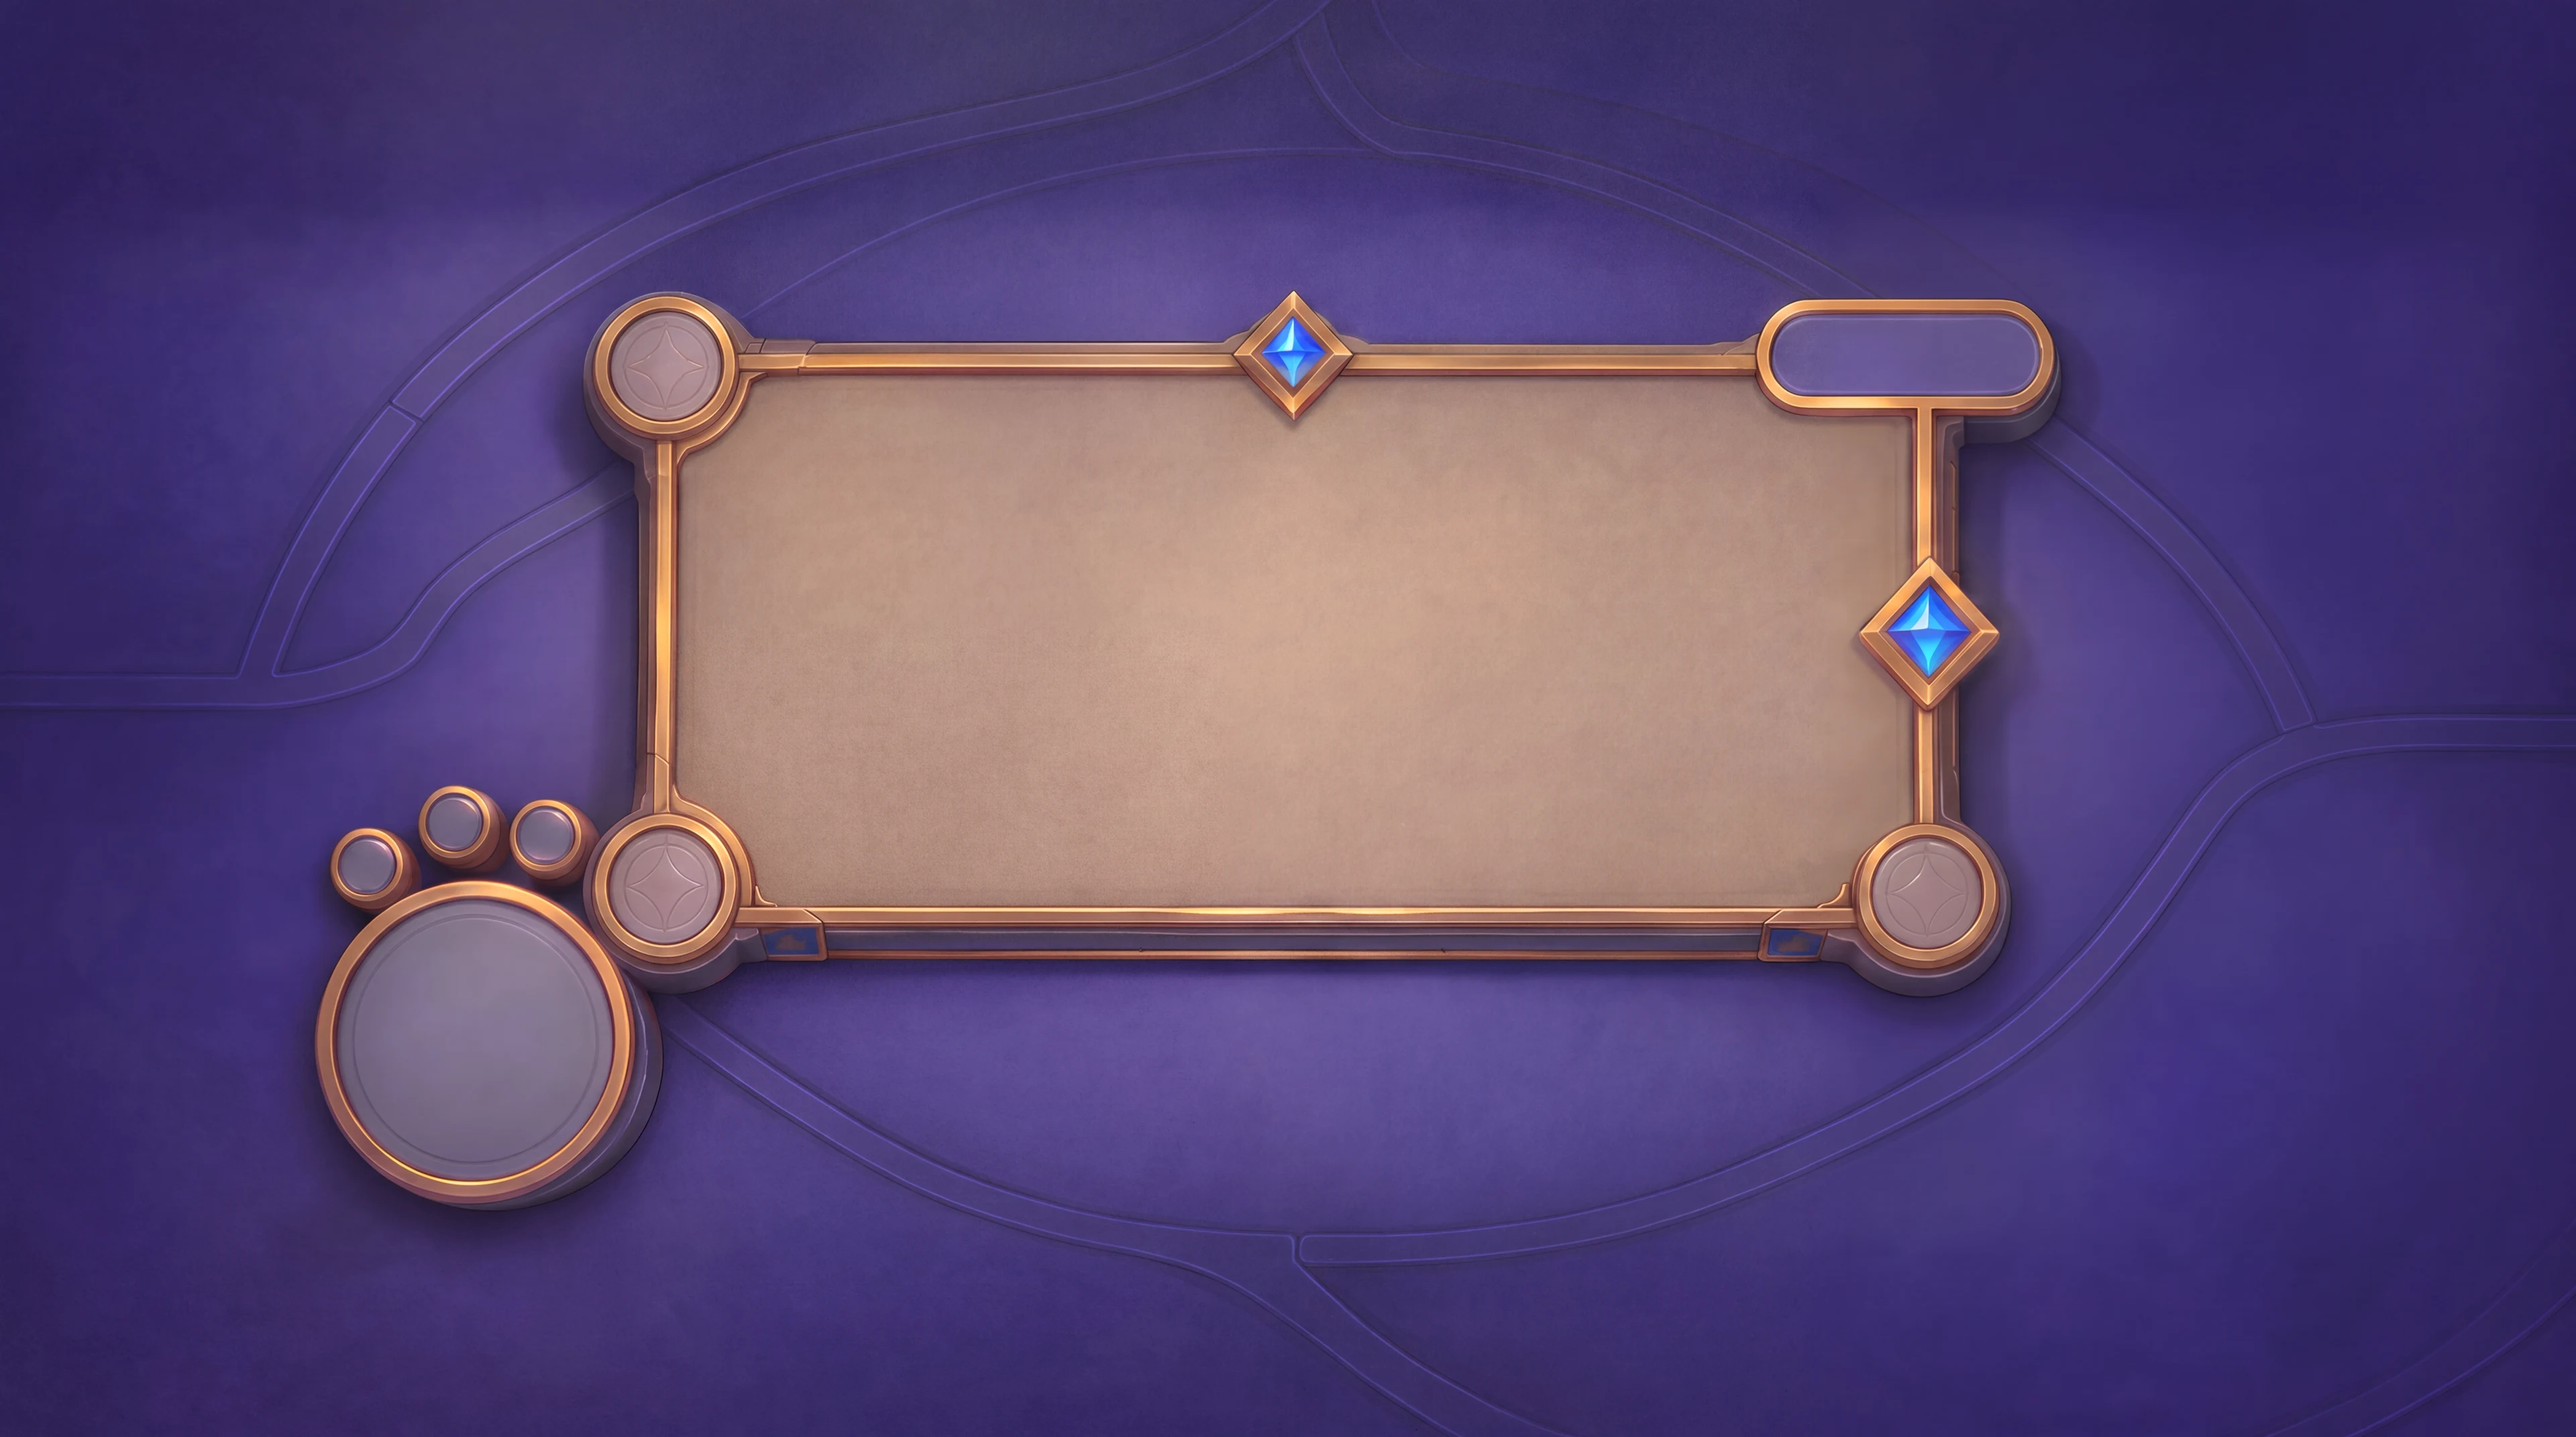
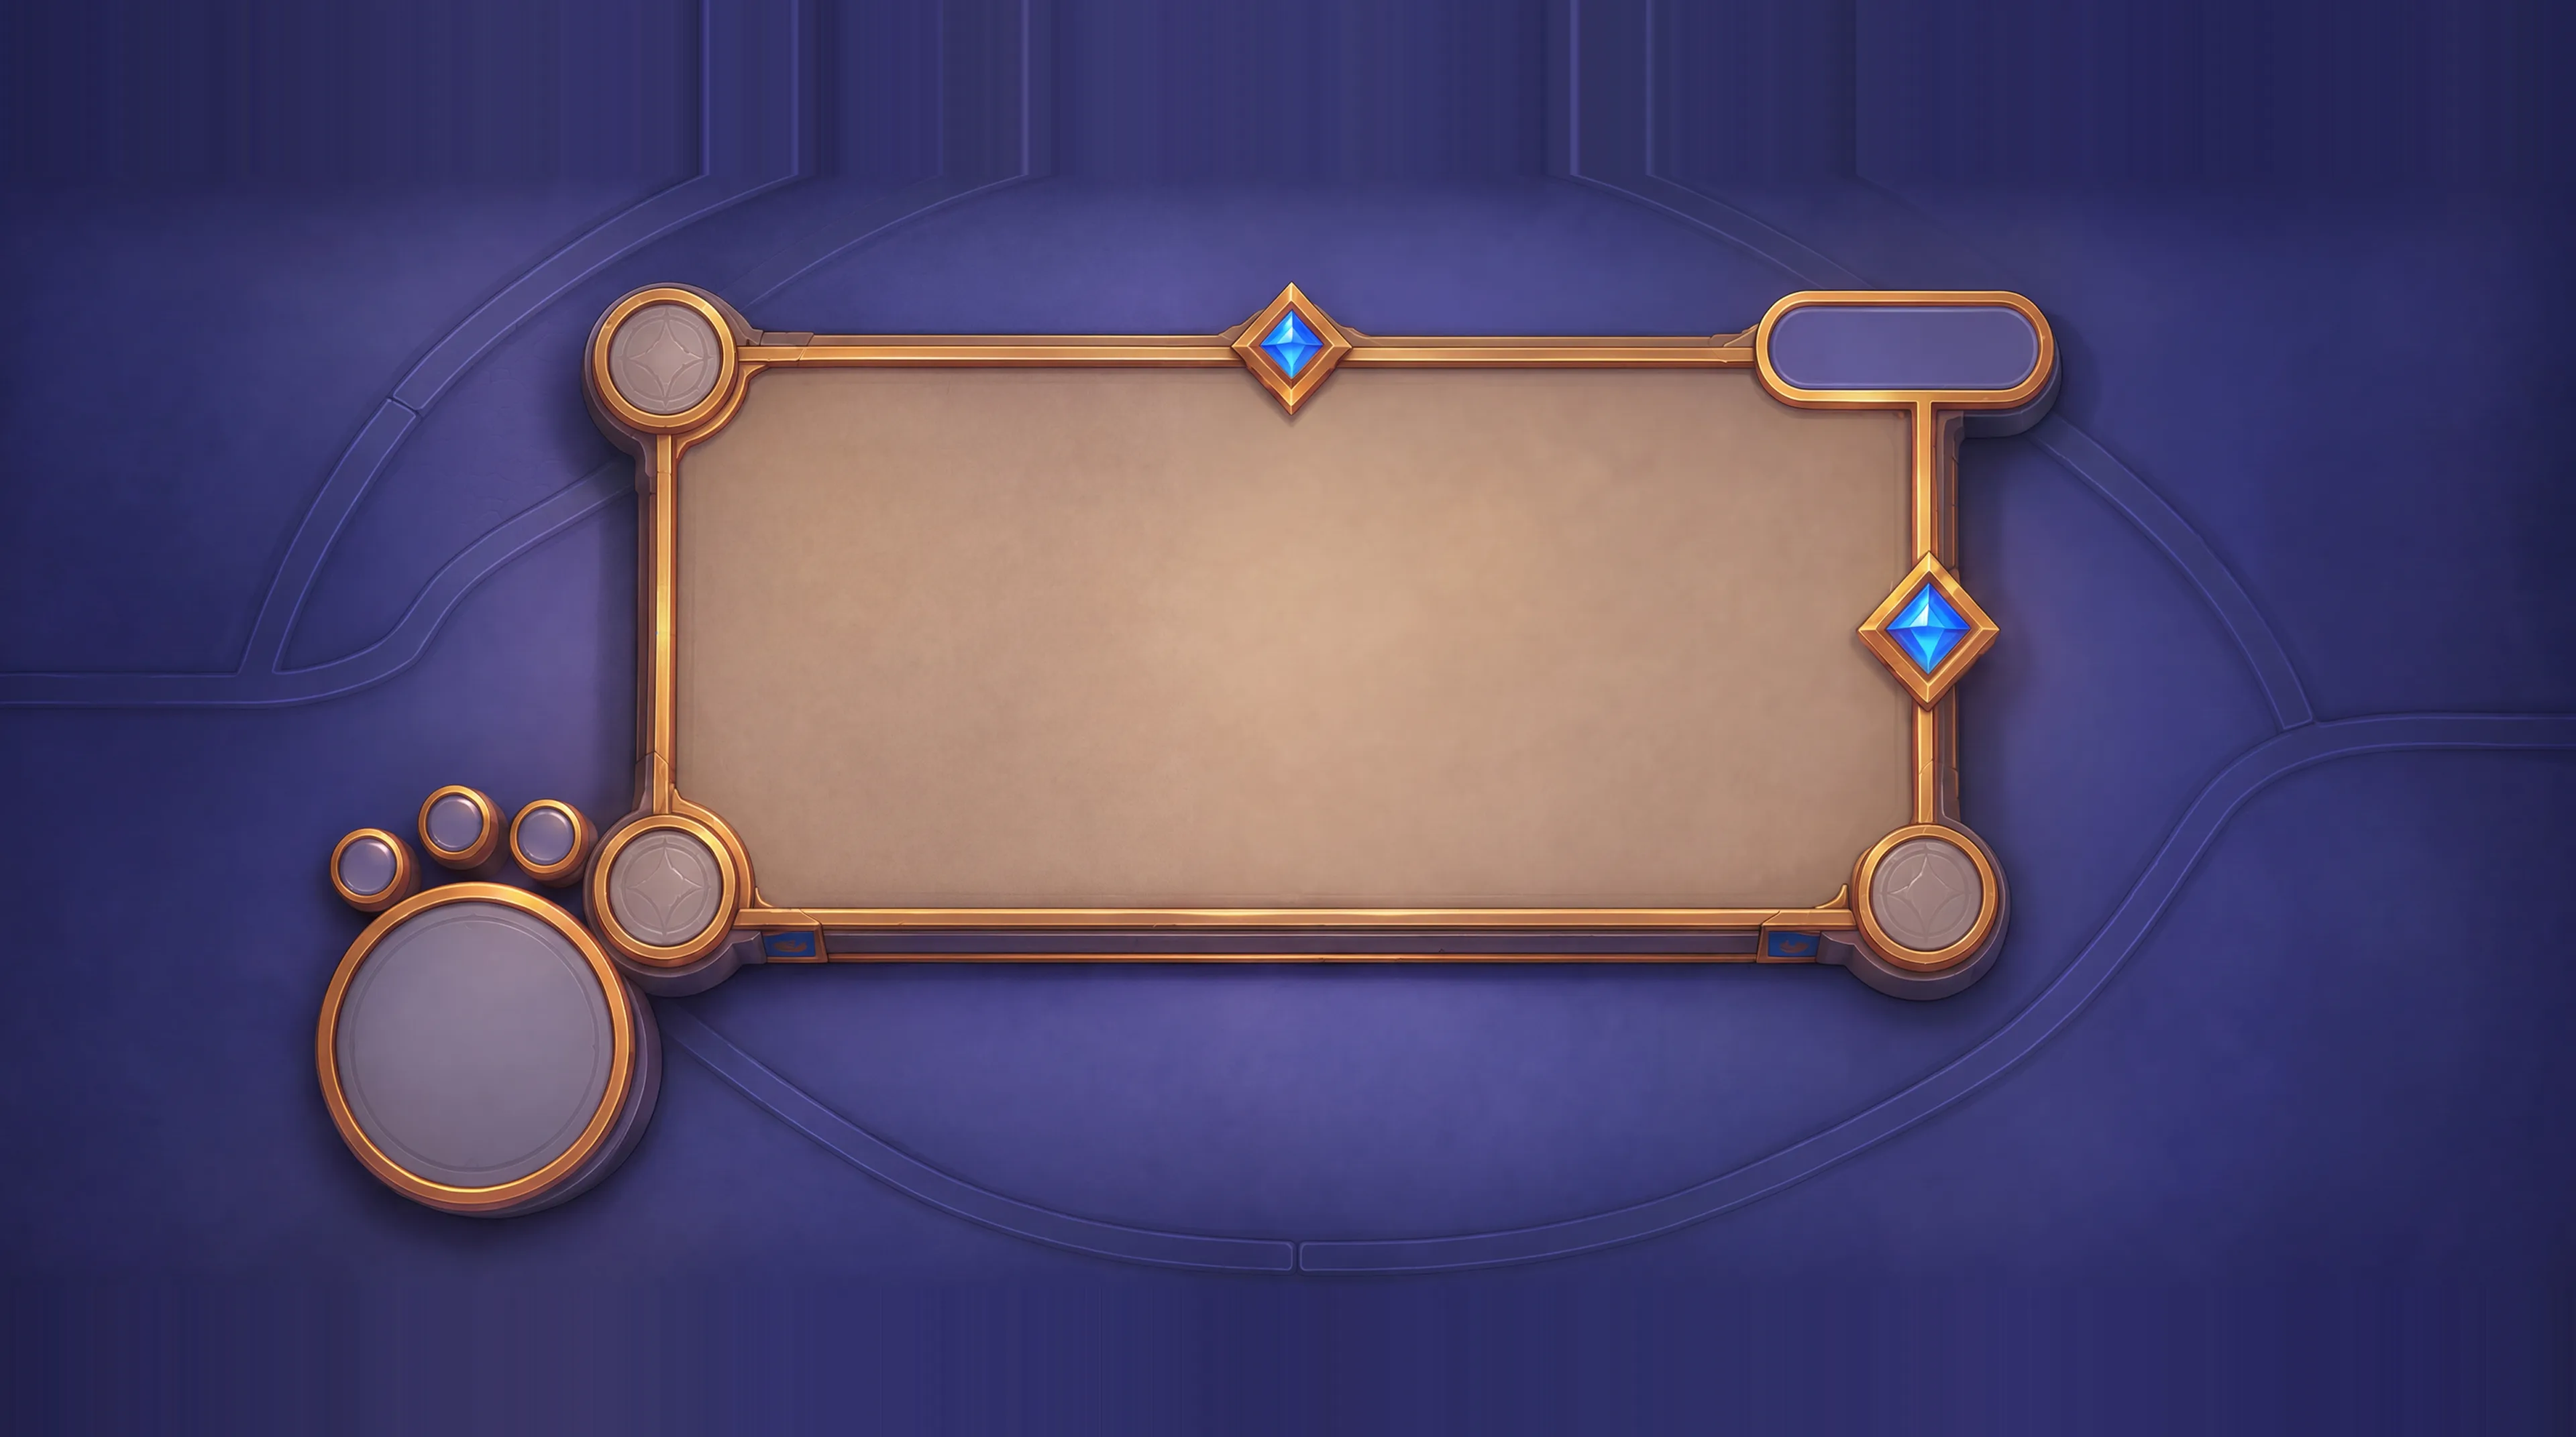
feat(art): Aug-25 board pair exported onto the live board's framing

diff --git a/packages/tools/src/board-export.ts b/packages/tools/src/board-export.ts
@@ -1,0 +1,56 @@
+/**
+ * Board art export — maps the 8192×3542 Aug-25 board masters onto the SHIPPED board's framing.
+ *
+ * The game's UI (buttons, zones, charge glyph) is tuned against the frame position of the original
+ * `augustfullboard.webp` (3840×2143, exported 2026-08-17 from the older 5504×3072 master). The Aug-25
+ * masters are the same design rendered at a tighter crop, so a fixed transform — found by image
+ * registration (mean-abs-diff grid search of uniform scale + offset against the shipped webp, verified
+ * by a 50/50 pixel blend showing a single crisp frame) — places their painted frame on exactly the
+ * same canvas pixels. The masters carry less purple surround vertically; the shortfall is filled by
+ * edge-row replication (`extendWith: 'copy'`), which the board's 1.25× overscan keeps almost entirely
+ * off-screen.
+ *
+ * Run: `npm run board:export` (masters live in the owner's `Desktop/Reference Art`; pass
+ * `--src <dir>` if they move). Re-run only when a master is re-exported; commit the webps it writes.
+ */
+import path from 'node:path';
+import sharp from 'sharp';
+
+const CANVAS_W = 3840;
+const CANVAS_H = 2143;
+// Registered transform (2026-08-27): uniform scale, no horizontal shift, +260 px vertical placement.
+const SCALE = 0.469;
+const LEFT_CROP = 0;
+const TOP_PAD = 260;
+const QUALITY = 82;
+
+const srcFlag = process.argv.indexOf('--src');
+const SRC_DIR = srcFlag >= 0 ? process.argv[srcFlag + 1] : 'C:/Users/micha/Desktop/Reference Art';
+const OUT_DIR = path.resolve('apps/web/public');
+
+const JOBS: ReadonlyArray<{ master: string; out: string }> = [
+  { master: 'augustboard psd.png', out: 'augustfullboard.webp' },
+  { master: 'augustboardcombat.png', out: 'augustboardcombat.webp' },
+];
+
+async function exportBoard(master: string, out: string): Promise<void> {
+  const src = path.join(SRC_DIR, master);
+  const meta = await sharp(src).metadata();
+  if (meta.width !== 8192 || meta.height !== 3542) {
+    throw new Error(`${master}: expected 8192x3542, got ${meta.width}x${meta.height} — re-derive the transform before exporting.`);
+  }
+  const w = Math.round(8192 * SCALE); // 3842
+  const h = Math.round(3542 * SCALE); // 1661
+  const dest = path.join(OUT_DIR, out);
+  await sharp(src)
+    .resize(w, h)
+    .extract({ left: LEFT_CROP, top: 0, width: CANVAS_W, height: h })
+    .extend({ top: TOP_PAD, bottom: CANVAS_H - TOP_PAD - h, extendWith: 'copy' })
+    .webp({ quality: QUALITY })
+    .toFile(dest);
+  const outMeta = await sharp(dest).metadata();
+  console.log(`${out}: ${outMeta.width}x${outMeta.height}`);
+  if (outMeta.width !== CANVAS_W || outMeta.height !== CANVAS_H) throw new Error(`${out}: wrong output size`);
+}
+
+for (const j of JOBS) await exportBoard(j.master, j.out);
